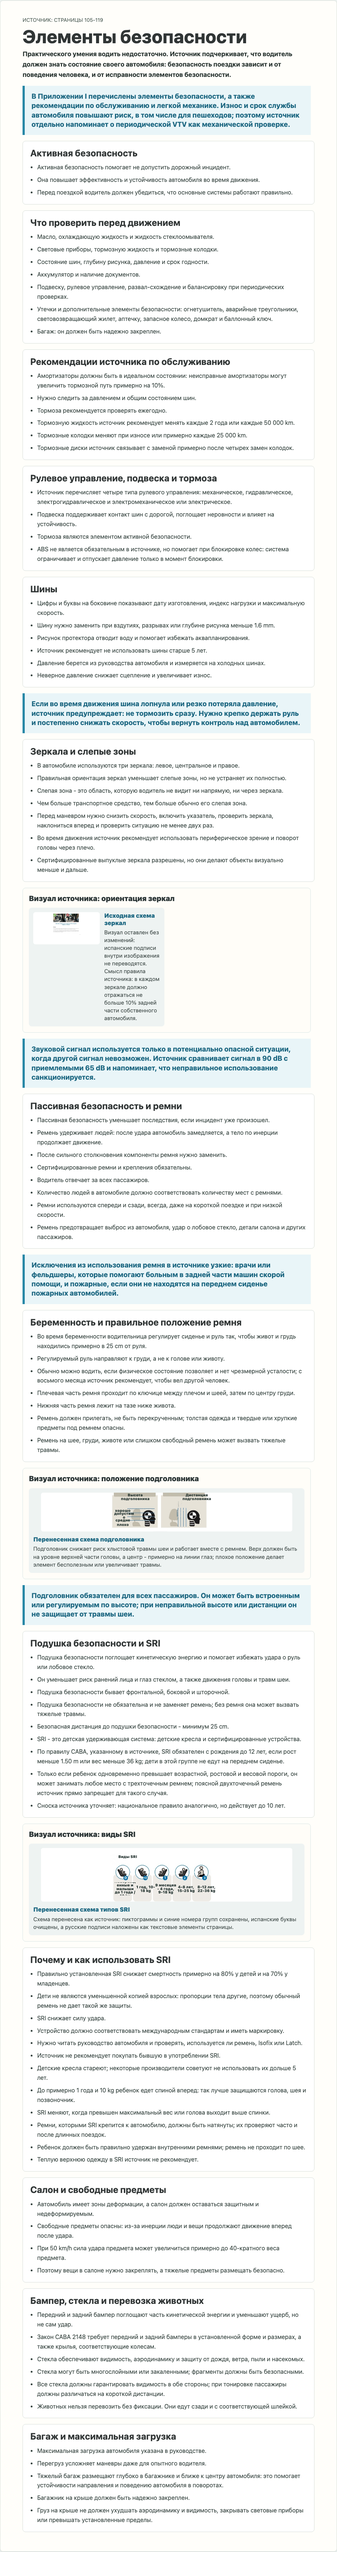
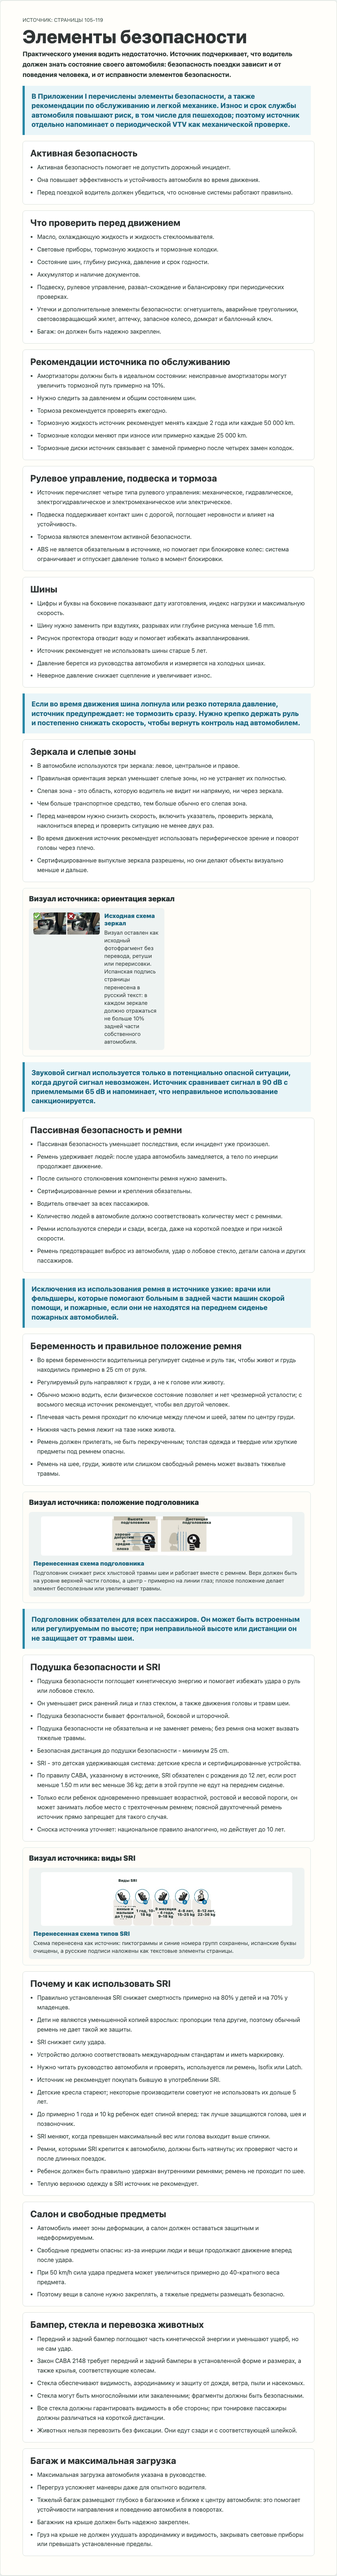
Crop Appendix I mirror visual to photo

Changed region(s): [[0.0614, 0.0, 0.8904, 0.9968]]

diff --git a/src/data/manual-sections/app1-safety-elements.ts b/src/data/manual-sections/app1-safety-elements.ts
@@ -3,13 +3,6 @@ import type { ManualGuideSectionContent } from "../manualGuide";
 const assetRoot =
   "content/assets/manuals/gcba-manual-vehiculo-4-ruedas-2023/sections/app1-safety-elements";
 
-const sourceImageException = {
-  kind: "source-image-original-visible-text",
-  visibleSpanishScope: "source-image-only",
-  sourceAsIs: true,
-  russianExplanationOutsideImage: true
-} as const;
-
 export const app1SafetyElementsSection: ManualGuideSectionContent = {
   id: "app1-safety-elements-content",
   sectionId: "app1-safety-elements",
@@ -54,7 +47,7 @@ export const app1SafetyElementsSection: ManualGuideSectionContent = {
       "Source page 104 is the Appendix I divider and is recorded in registry evidence, not as a standalone runtime article.",
       "Pages 105-119 are rendered as selectable Russian learner text while preserving the official safety, legal, maintenance, and numeric details.",
       "Page 119 is shared: the Equipaje paragraphs before the Otros elementos de seguridad obligatorios heading belong to this safety-elements section; the heading and following obligatory equipment content belong to the next section.",
-      "The mirror-orientation visual is an x5 source-as-is crop because it is treated as a protected source image. The headrest and SRI visuals are transferred from x5 source crops with Spanish text cleaned at glyph level and Russian labels overlaid as selectable page text."
+      "The mirror-orientation visual is an x5 source-as-is crop of only the protected mirror photo collage; Spanish body/caption text from the surrounding source page is translated in selectable Russian page text outside the image. The headrest and SRI visuals are transferred from x5 source crops with Spanish text cleaned at glyph level and Russian labels overlaid as selectable page text."
     ]
   },
   blocks: [
@@ -179,19 +172,18 @@ export const app1SafetyElementsSection: ManualGuideSectionContent = {
           id: "mirror-orientation-source-card",
           titleRu: "Исходная схема зеркал",
           sourcePage: 110,
-          sourceRegion: { x: 1180, y: 980, width: 1295, height: 620 },
+          sourceRegion: { x: 1570, y: 1008, width: 495, height: 163 },
           assetPath: `${assetRoot}/mirror-orientation-photo-source-as-is.jpg`,
           altRu:
             "Исходная схема правильной ориентации зеркал, оставленная без изменений.",
-          visibleSpanish: true,
-          sourceImageException,
+          visibleSpanish: false,
           bodyRu:
-            "Визуал оставлен без изменений: испанские подписи внутри изображения не переводятся. Смысл правила источника: в каждом зеркале должно отражаться не больше 10% задней части собственного автомобиля."
+            "Визуал оставлен как исходный фотофрагмент без перевода, ретуши или перерисовки. Испанская подпись страницы перенесена в русский текст: в каждом зеркале должно отражаться не больше 10% задней части собственного автомобиля."
         }
       ],
       visualNotes: [
-        "The mirror orientation image is byte-identical to the x5 source crop.",
-        "No photo/source-image text is translated, cleaned, recolored, or relabeled inside the image."
+        "The mirror orientation image is byte-identical to the x5 source crop of the protected photo collage only.",
+        "Spanish body/caption text around the source photo is excluded from the image and translated in surrounding selectable Russian page text."
       ]
     },
     {

diff --git a/specs/031-manual-document-completion/tasks.md b/specs/031-manual-document-completion/tasks.md
@@ -194,7 +194,7 @@ For each chapter-equivalent content PR:
 - Coordination note, Appendix I replacement IA: prior Implementation Agent Lorentz `019e8dc1-9113-7b30-b29f-e1d1a9dda172` was closed by Orchestrator after no response/progress. Orchestrator read-only inspected this worktree and found it clean at base with no commits/diff/processes. On resumed assignment, this IA found untracked Appendix I assets/evidence from the interrupted attempt, preserved them, adopted the files that matched the scope, corrected the visual transfers, and left the duplicate `content/validation/manual-guide/app1-safety-elements/page-119-safety-elements-source-crop.jpg` untracked and unstaged; after the later page `119` shared-boundary repair, the tracked x5 crop `content/validation/manual-guide/app1-other-required-safety-elements/page-119-other-required-safety-elements-source-crop.jpg` supplies the shared-page evidence with the same SHA-256, so the duplicate remains unnecessary for the PR.
 - Appendix I source-boundary decision: source page `104` is the Appendix I divider and is recorded as `chapter-divider-only` under `appendix-1-private-cars`, not standalone runtime content. Runtime Appendix I starts on page `105` and ends on page `122`; no Appendix II, Appendix III, Appendix IV, front matter, or unrelated correction content is bundled.
 - Appendix I section-order decision: this PR implements exactly the source-order sections `app1-safety-elements` pages `105-119`, `app1-other-required-safety-elements` pages `119-120`, and `app1-recommended-safety-elements` pages `121-122`. Page `119` is shared: `Equipaje`/luggage masks `02-09` remain under safety elements, and `Otros elementos de seguridad obligatorios` starts at mask `10`.
-- Appendix I visual decision: source pages `105-122` plus page `104` divider evidence were rendered/exported from the canonical GCBA PDF at x5-equivalent resolution (`2976x4209` page renders), with validation crops copied from those renders without resizing or cleanup. The mirror-orientation photo is a protected source-as-is runtime image with byte-identical validation/runtime hashes and Russian explanation outside the image. The headrest-position and SRI-type visuals are transferred source-crop PNG infographics with targeted glyph/antialias Spanish cleanup and background restoration, preserved source structure/numerals/pictograms, `visibleSpanish=false`, no approximate redraw, no broad mask/plate/patch claim, and selectable Russian DOM labels/explanation outside or over the cleaned image surface. No photo, traffic sign, road marking, source page image, validation crop, or protected source visual was translated, relabeled, recolored, retouched, masked, inpainted, reconstructed, or redrawn.
+- Appendix I visual decision: source pages `105-122` plus page `104` divider evidence were rendered/exported from the canonical GCBA PDF at x5-equivalent resolution (`2976x4209` page renders), with validation crops copied from those renders without resizing or cleanup. The mirror-orientation visual is now a protected source-as-is runtime crop of only the mirror photo collage; surrounding Spanish caption/body text is excluded from the image and translated in selectable Russian page text, with byte-identical validation/runtime hashes and Russian explanation outside the image. The headrest-position and SRI-type visuals are transferred source-crop PNG infographics with targeted glyph/antialias Spanish cleanup and background restoration, preserved source structure/numerals/pictograms, `visibleSpanish=false`, no approximate redraw, no broad mask/plate/patch claim, and selectable Russian DOM labels/explanation outside or over the cleaned image surface. No photo, traffic sign, road marking, source page image, validation crop, or protected source visual was translated, relabeled, recolored, retouched, masked, inpainted, reconstructed, or redrawn.
 - Appendix I content decision: Russian learner content preserves the source safety details for seat belts, seat posture, mirrors, airbags, child restraint systems, luggage/max-load placement, mandatory vehicle equipment, required fire extinguisher/triangles/vest/tow-bar details, and recommended safety equipment. The registry and tests guard the page `104` divider disposition, exact source ranges, page `119` shared-boundary ownership, Appendix I nav wiring, visual evidence metadata, source-boundary end at page `122`, and absence of Appendix II/III/IV bundling.
 - Review-fix decision, PR #191 Review Agent comments `3353239049`, `3353239050`, and `3353239052`: Appendix I learner-facing Russian text no longer contains untranslated English/Spanish scaffold fragments in safety elements, other required equipment, or recommended equipment. The fix localizes terms such as mirror checks, horn and windshield wording, seatbelt exceptions, pregnancy/seatbelt anatomy, headrest/airbag/SRI prose, cabin/passive-safety wording, bumpers/glass/pet transport, luggage/roof-load guidance, warning triangles, extinguisher operation/material classes, reflective vest, first-aid kit contents, and tow-bar recommendations. Official source Spanish remains only in `sourceTextEs`/source evidence, and official abbreviations or units such as `VTV`, `ABS`, `SRI`, `CABA`, `ABC`, `Isofix`, `Latch`, `kg`, `km`, `cm`, `mm`, and `dB` remain where needed.
 - Review-fix decision, PR #191 visual/source scope: no source images, transferred infographics, screenshots, validation crops, source-page images, photos, signs, road markings, registry visual metadata, or runtime visual assets were modified for the localization repair. The intentionally untracked duplicate page `119` safety-elements crop remains preserved and unstaged because it is unrelated to these review findings.
@@ -207,6 +207,8 @@ For each chapter-equivalent content PR:
 - Validation staleness notice, PR #191 `2026-06-04T05:20:24Z`: automated Codex comment `3353643677` required a post-final-validation product/content registry/runtime/test/process repair after evidence-only head `43964bd8ecda9bc4d0cc842bd50c777d1a408270` and effective content head `77eefbf268236ba78a0d9f55e8de8f6001a7301c`. Prior Architect validation at `2026-06-04T05:03:23Z` and Analyst validation at `2026-06-04T05:06:09Z` for `77eefbf268236ba78a0d9f55e8de8f6001a7301c` are stale for finalization; the next pushed boundary-repair content head must become the new effective content candidate and receive fresh Architect then Analyst final validation before finalization.
 - Review-fix decision, PR #191 Review Agent comment `3353715772`: the registry top-level `sharedSourcePageOwnership` now also declares source page `119`, matching the Appendix I section-level boundary evidence and source-fidelity evidence. The registry-level shared-page contract is guarded by focused tests and by the source-fidelity checker, which now compares registry shared-page ownership against the evidence file before accepting duplicated source-page coverage.
 - Review-fix visual/source scope, PR #191 `3353715772`: this follow-up changed only registry metadata, source-fidelity checker assertions, focused tests, and process memory. No runtime learner DOM, screenshots, source crops, source page images, photos, traffic signs, road markings, source-as-is mirror photo, or transferred infographic assets were modified; the intentionally untracked duplicate page `119` safety-elements crop remains preserved and unstaged.
[1 lines of base64/hex data omitted]
+- AI Review-fix visual/source scope, PR #191 `3353724247`: only the mirror source/runtime crop and `app1-safety-elements` desktop/mobile screenshots were regenerated. The photo pixels were not translated, retouched, relabeled, recolored, redrawn, masked, inpainted, or otherwise modified; the change removes surrounding non-photo Spanish page text by cropping to the protected source visual. No traffic signs, road markings, headrest/SRI transferred infographics, page source renders, or unrelated Appendix I assets were modified. The intentionally untracked duplicate page `119` safety-elements crop remains preserved and unstaged.
 - Validation staleness notice, PR #190: Review Agent comment `3352682015` required a post-PR non-evidence content/test/process repair after current head `a21074d42a3c10466288856a55c4e7207b0c3386`; therefore any final validation or final-validation evidence for `a21074d42a3c10466288856a55c4e7207b0c3386` is stale for finalization. The next pushed localization repair head must become the new effective content head and receive fresh Architect then Analyst final validation before finalization.
 - Validation staleness notice, PR #190: automated Codex comments `3352716346` and `3352716350` required a post-review non-evidence visual asset/registry/test/process repair after current head `c6a040a21162f6dd9ebc0474e20993e5b8cb45c6`; therefore any final validation or final-validation evidence for `c6a040a21162f6dd9ebc0474e20993e5b8cb45c6` is stale for finalization. The pushed visual/boundary repair head must become the new effective content head and receive fresh Architect then Analyst final validation before finalization.
 - Validation staleness decision, PR #189 `2026-06-03T18:25:31Z`: Codex review comment `3350790136` required a post-validation non-evidence content/test/registry/process repair after effective content head `a8ecdac9daed66274ba51fb04ecbe47279aae2f6` and current head `9d249963ff245f32f67384a4bc17f1361d8bb891`. Prior Architect and Analyst final validation for `a8ecdac9daed66274ba51fb04ecbe47279aae2f6` is stale for finalization; a new effective content head plus fresh Architect final validation followed by Analyst final validation is required after this repair is committed, pushed, and required checks pass.
@@ -395,7 +397,7 @@ For each chapter-equivalent content PR:
 
 - Base and scope evidence: `git rev-parse HEAD` before editing returned `b63639a20e413f339266e2e91ce63c377377230a`, matching the Orchestrator-assigned verified `origin/main` base after merged PR #190. Initial active-worktree status showed branch `codex/031-appendix-i` with untracked Appendix I visual/evidence directories from the interrupted prior attempt and no local commits. Work stayed in `/Users/chap/devel/cabadrive-worktrees/031-appendix-i` on branch `codex/031-appendix-i`.
 - Source extraction evidence: Appendix I source pages were rendered/exported from `content/official-documents/originals/gcba-manual-vehiculo-4-ruedas-2023.pdf` at x5-equivalent source resolution; source page renders were `2976x4209`. Validation source crops under `content/validation/manual-guide/appendix-1-private-cars/`, `app1-safety-elements/`, `app1-other-required-safety-elements/`, and `app1-recommended-safety-elements/` were copied from those renders without resizing, translation, cleanup, retouching, or broad masking.
[3 lines of base64/hex data omitted]
 - Browser evidence: in-app browser spot check at `http://127.0.0.1:5191/#manual-section-app1-safety-elements` confirmed `sectionId: app1-safety-elements`, `hasHeadrest: true`, `hasSri: true`, and `hasMirror: true`.
 - Focused verification passed: `node scripts/manual-guide-source-fidelity.mjs` passed with `status: pass`, `mode: section-registry-with-complete-chapters-1-through-5-and-appendix-1`, `sectionsChecked: 30`, `pendingSections: 0`, `implementedSections: 30`, `skippedSourcePages: [21,43,56,57,89,98,104]`, `skippedDividerPages: [21,43,57,89,98,104]`, `sharedSourcePages: [55,93,94,95,99,100,101,119]`, and `strictVisualRulePolicy: 031-strict-source-fidelity`.
@@ -415,7 +417,8 @@ For each chapter-equivalent content PR:
 - PR #191 page `119` luggage-boundary AI Review-fix focused verification, `2026-06-04T05:20:24Z`: `node scripts/manual-guide-source-fidelity.mjs` passed with `sectionsChecked: 30`, `pendingSections: 0`, `implementedSections: 30`, and `sharedSourcePages: [55,93,94,95,99,100,101,119]`; `node --test tests/content-manual-guide-chapters.test.mjs` passed with `80` tests and `0` failures after stale shared-page expectations were updated; `pnpm exec tsc --noEmit` passed. The first focused content-test attempt failed only on stale assertions that still expected page `119` to be unshared and scanned a boundary-evidence note for `Equipaje`; the final rerun passed.
 - PR #191 page `119` luggage-boundary AI Review-fix broader verification, `2026-06-04T05:24:15Z`: `node scripts/check-feature-memory.mjs --worktree` passed; `git diff --check` passed; and full `pnpm run preflight` passed, including feature-memory gate, repository baseline check, content validation with `sharedSourcePages: [55,93,94,95,99,100,101,119]`, `389` unit tests, production build, service-worker generation, and `78` Playwright tests with `0` failures. The existing Vite large chunk warning appeared during builds and remains non-fatal/pre-existing.
 - PR #191 page `119` registry shared-ownership Review Agent follow-up verification, `2026-06-04T05:31:48Z`: `node scripts/manual-guide-source-fidelity.mjs` passed with registry/evidence shared-page parity and `sharedSourcePages: [55,93,94,95,99,100,101,119]`; `node --test tests/content-manual-guide-chapters.test.mjs` passed with `80` tests and `0` failures; `pnpm exec tsc --noEmit` passed; `node scripts/check-feature-memory.mjs --worktree` passed; `git diff --check` passed; and full `pnpm run preflight` passed, including feature-memory gate, repository baseline check, content validation, `389` unit tests, production build, service-worker generation, and `78` Playwright tests with `0` failures. No screenshot regeneration was needed because the visible runtime DOM did not change.
-- Protected visual confirmation: no Appendix I photo, traffic sign, road-marking visual, source crop, validation crop, or source page image was translated, relabeled, recolored, retouched, masked, inpainted, reconstructed, or redrawn. The only Appendix I Spanish cleanup is the headrest/SRI transferred-infographic glyph cleanup from source crops; the mirror photo remains source-as-is.
[1 lines of base64/hex data omitted]
+- Protected visual confirmation: no Appendix I photo, traffic sign, road-marking visual, source page image, or transferred infographic was translated, relabeled, recolored, retouched, masked, inpainted, reconstructed, or redrawn. The mirror validation/runtime crop was narrowed to the protected photo collage only to exclude surrounding Spanish body text; the photo crop itself remains source-as-is and byte-identical between validation and runtime. The only Appendix I Spanish cleanup is the headrest/SRI transferred-infographic glyph cleanup from source crops.
 - Final handoff evidence: `git diff --cached --check` is run before each commit, and the final pushed PR head is reported by Implementation Agent handoff.
 
 ## Final Validation Evidence
